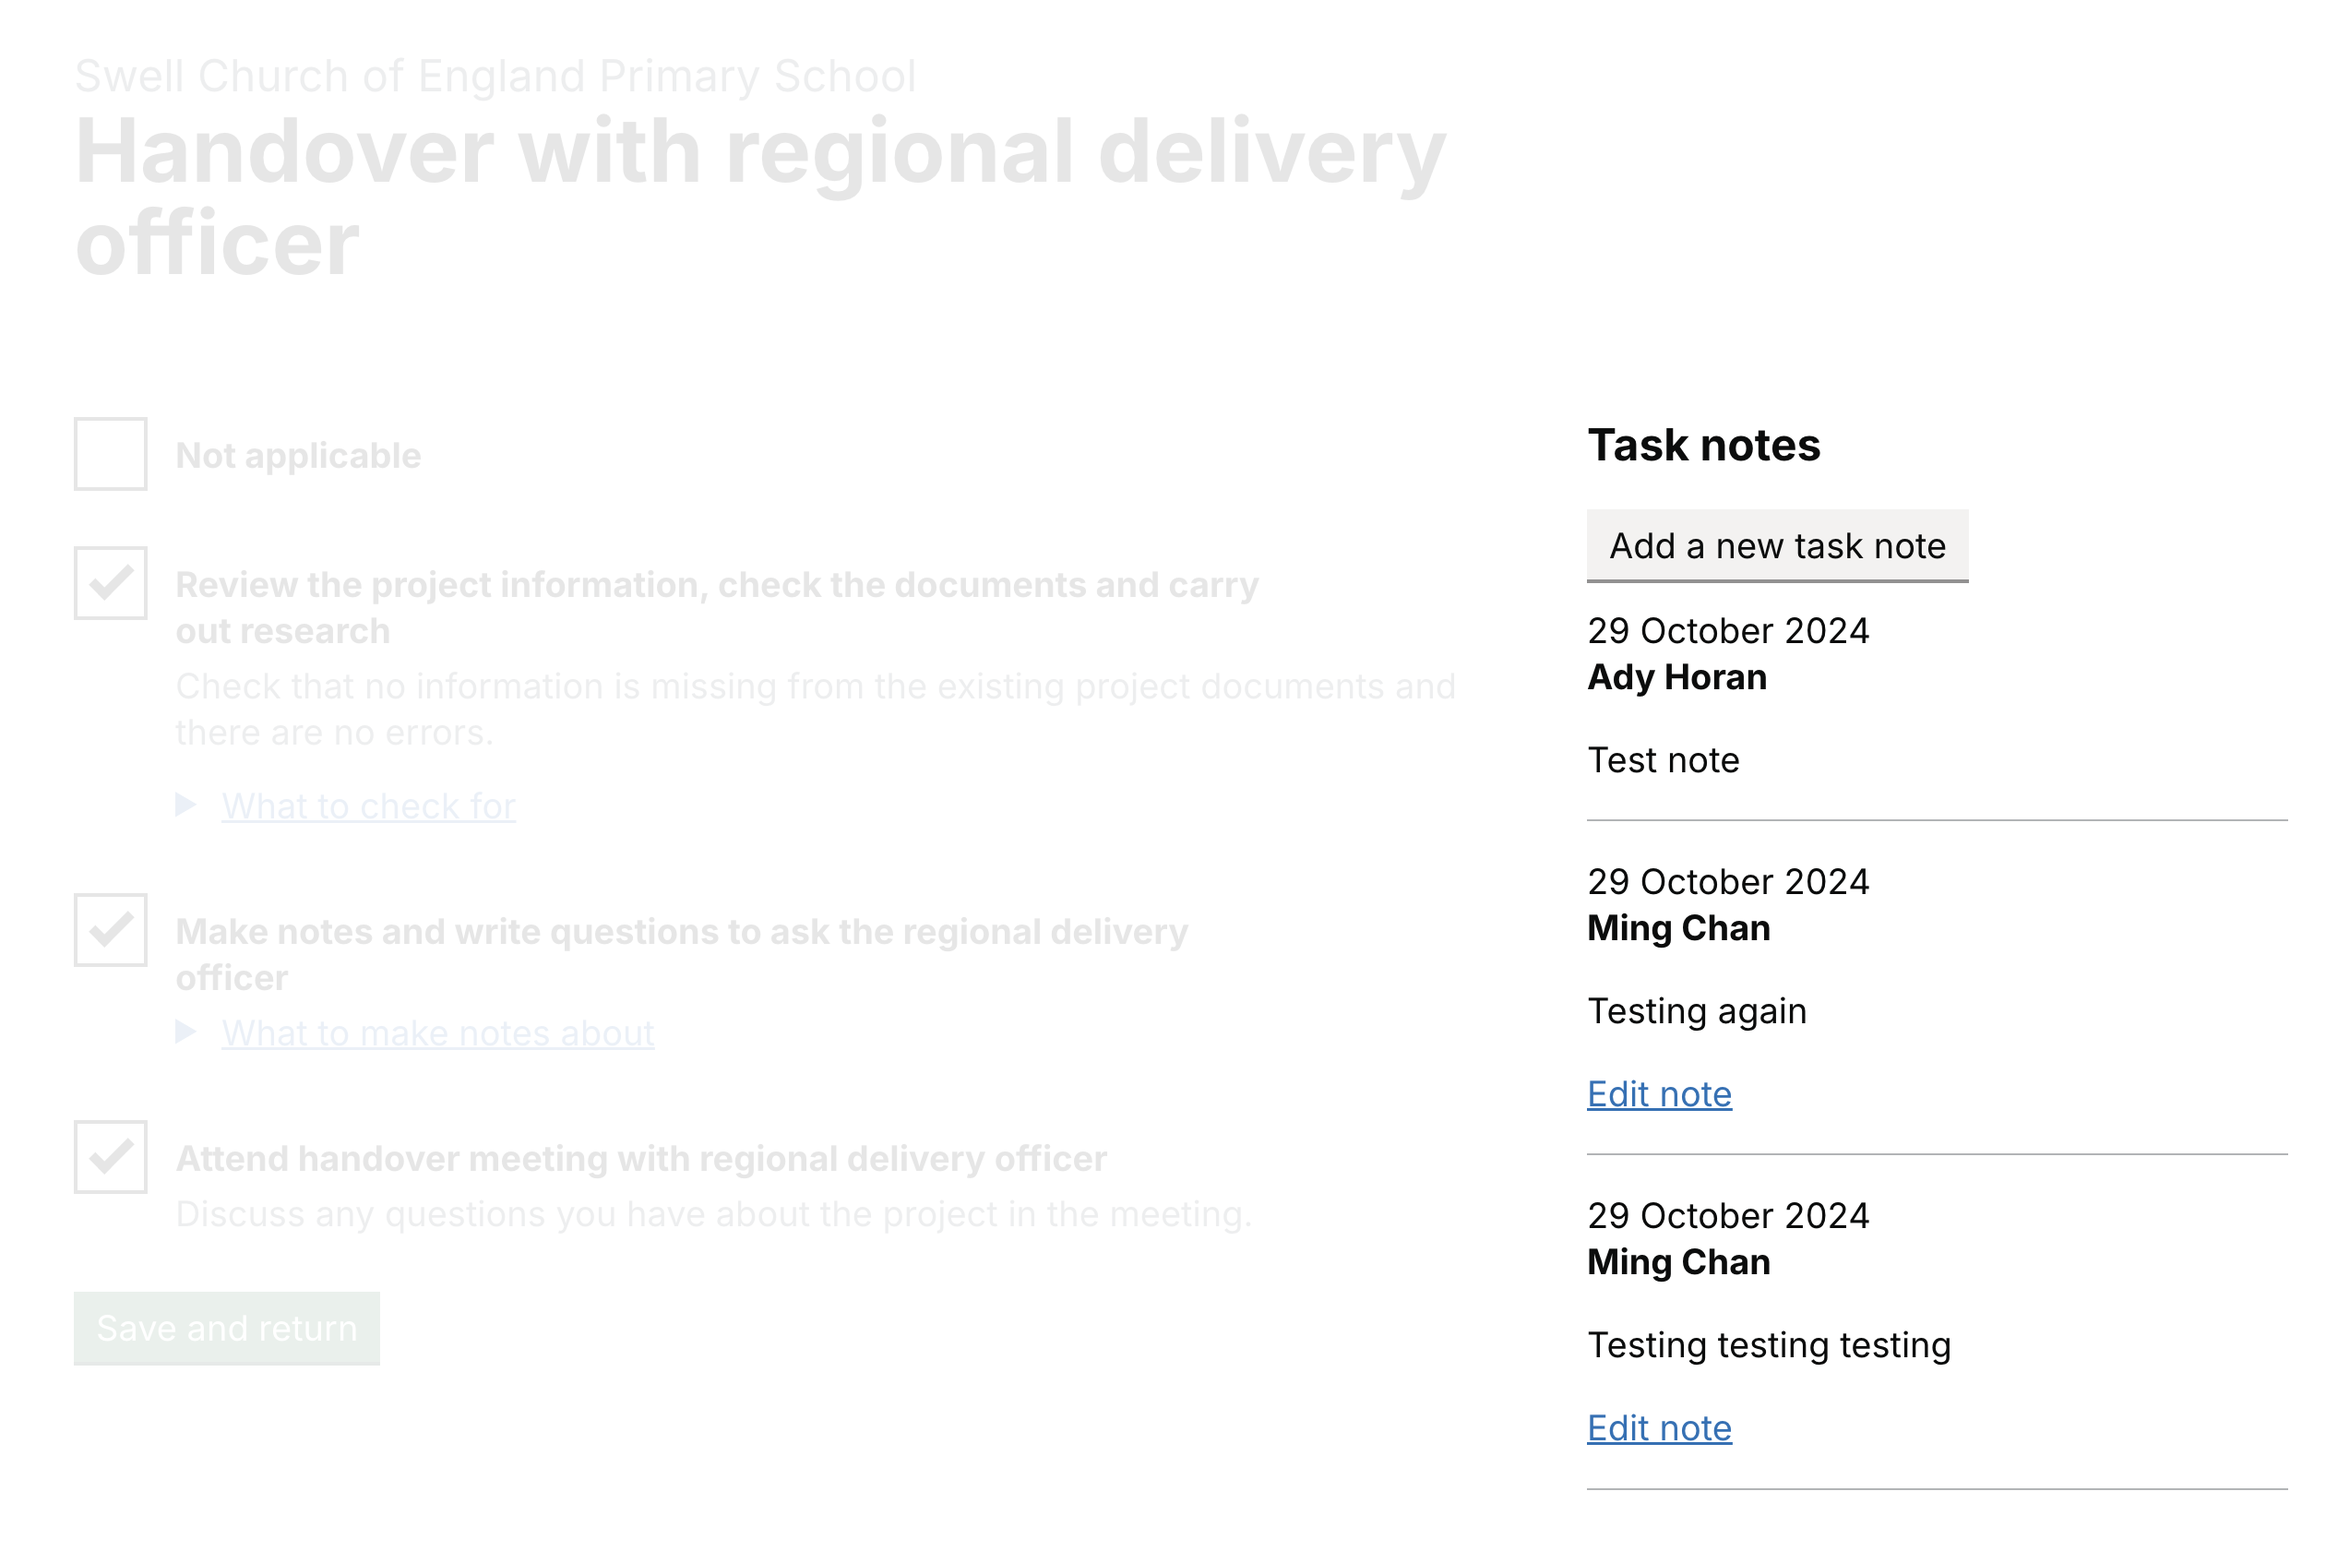
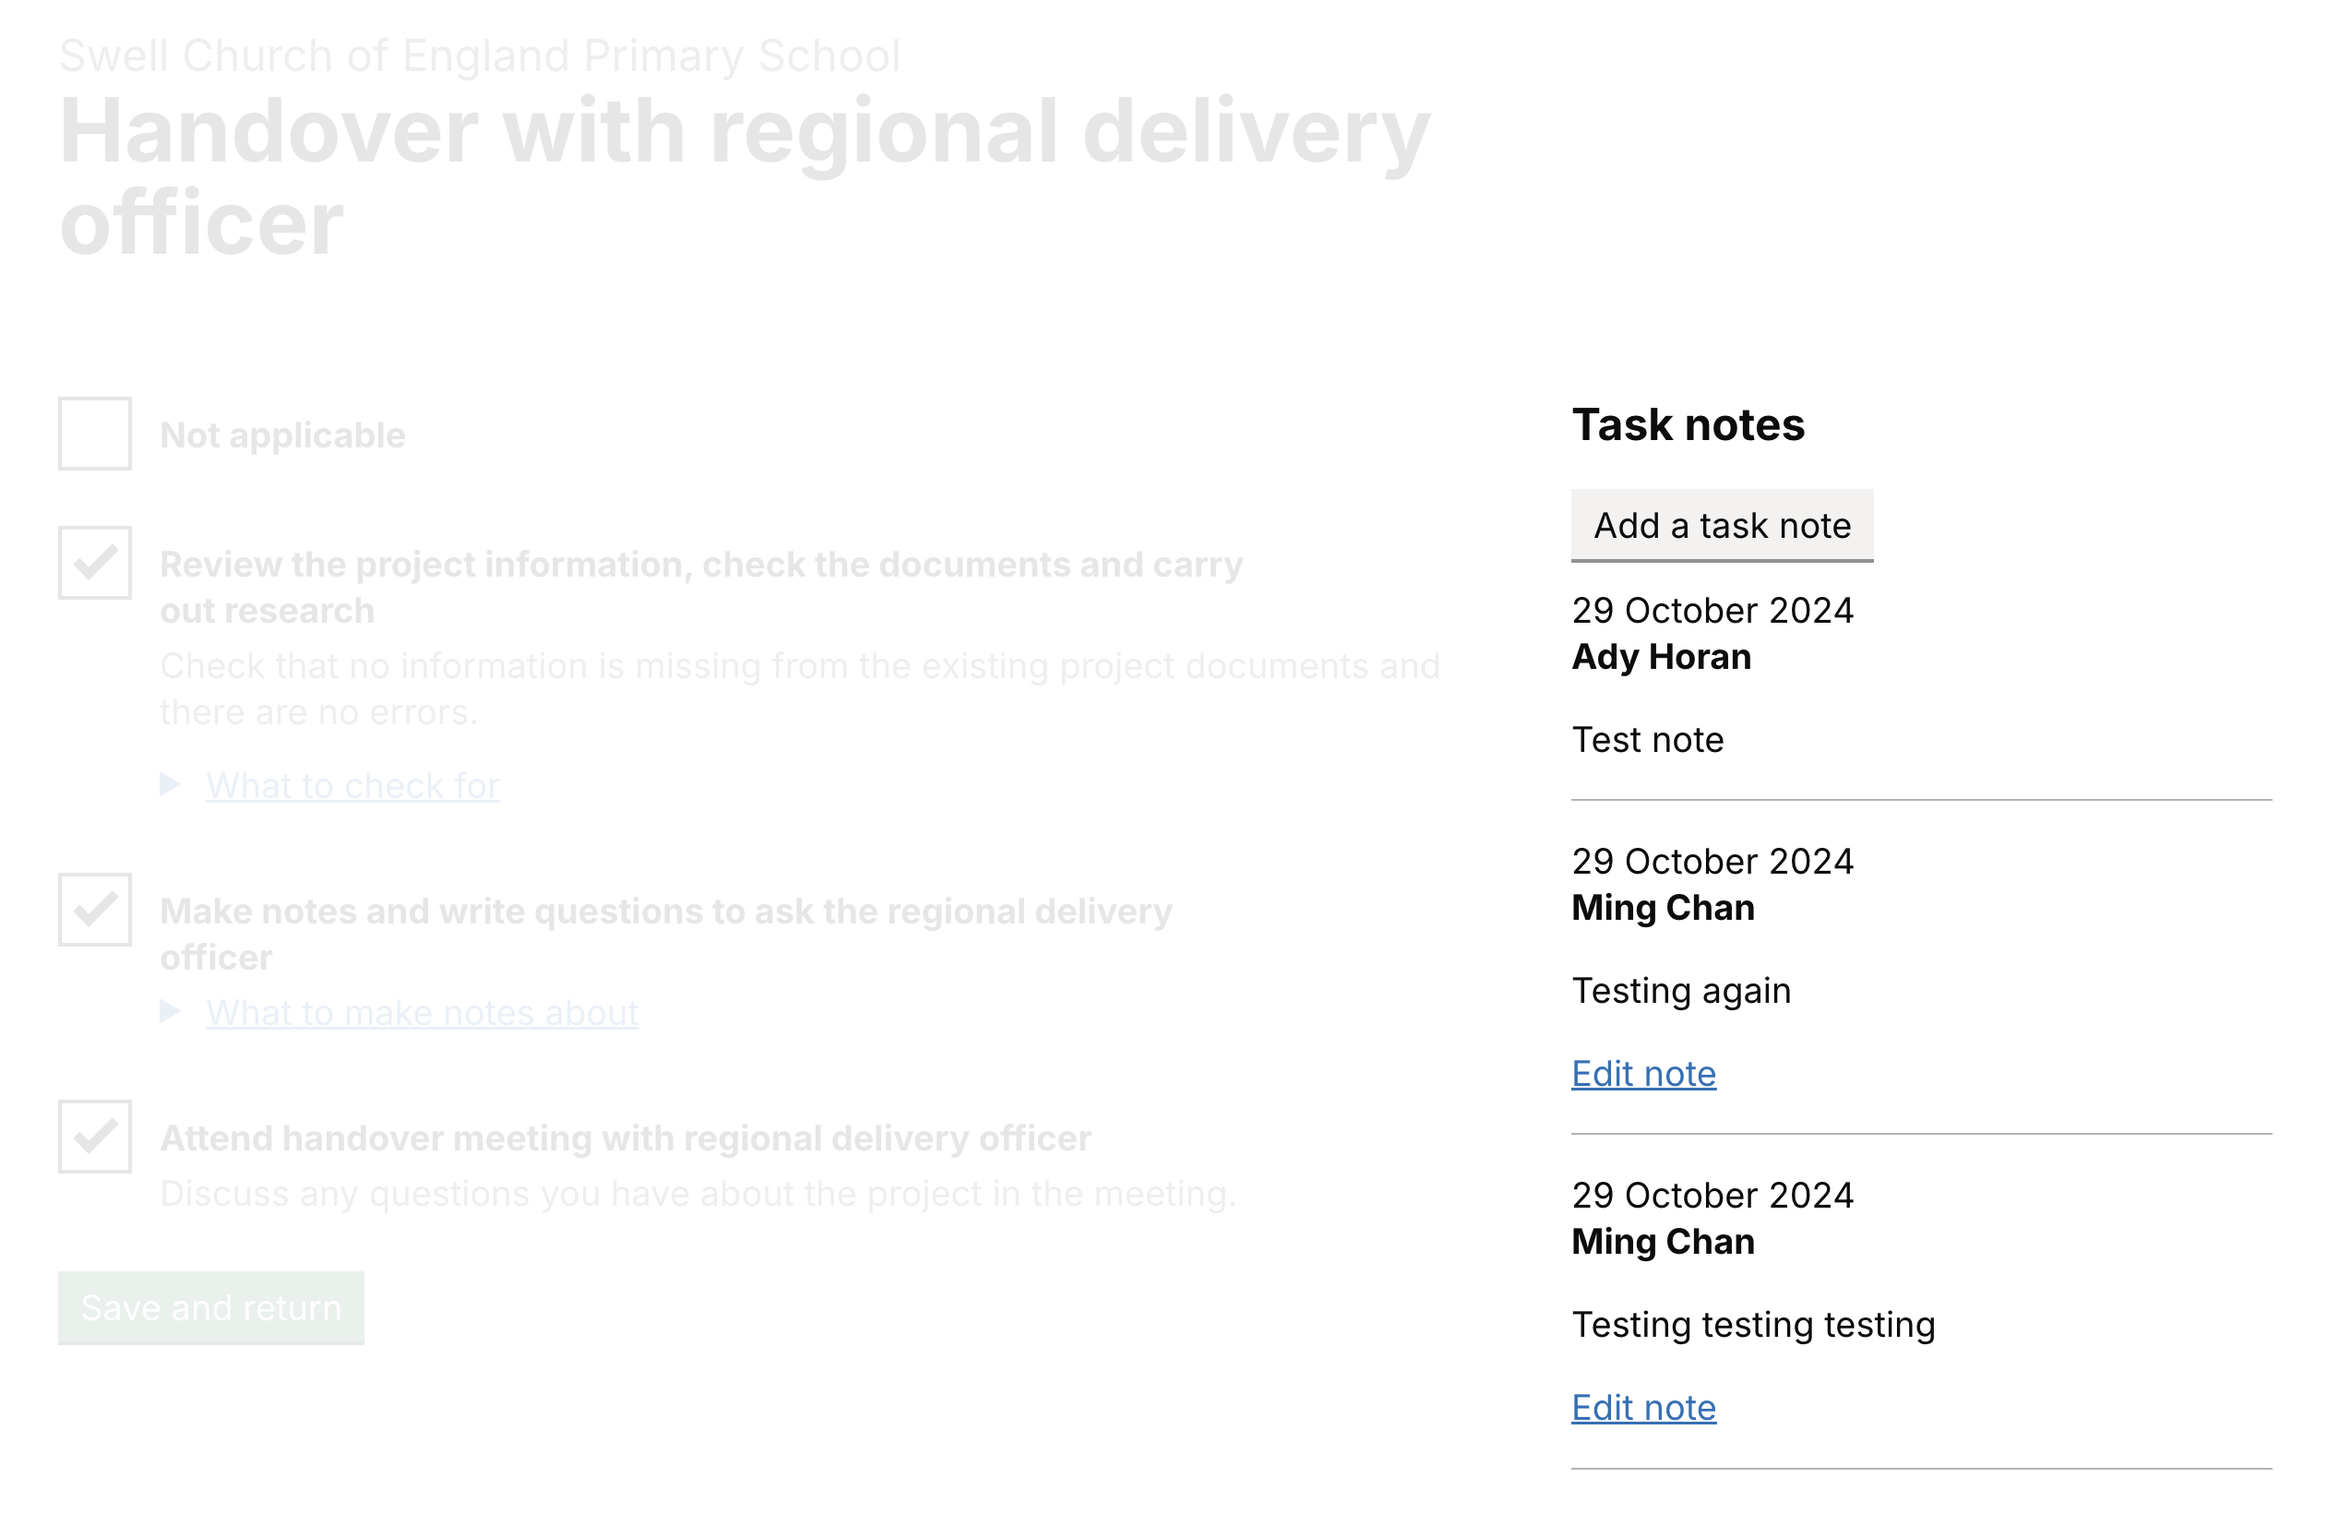
Removed the word New from the add task note button

diff --git a/app/views/design-system/rsd-design-system/design-patterns/notes/code-snippets.html b/app/views/design-system/rsd-design-system/design-patterns/notes/code-snippets.html
@@ -7,7 +7,7 @@
     &lt;aside&gt;
       &lt;h2 class=&quot;govuk-heading-m&quot;&gt;Task notes&lt;/h2&gt;
     
-      &lt;a data-module=&quot;govuk-button&quot; draggable=&quot;false&quot; role=&quot;button&quot; class=&quot;govuk-button govuk-button--secondary govuk-!-margin-bottom-6&quot; href=&quot;#&quot;&gt;Add a new task note&lt;/a&gt;
+      &lt;a data-module=&quot;govuk-button&quot; draggable=&quot;false&quot; role=&quot;button&quot; class=&quot;govuk-button govuk-button--secondary govuk-!-margin-bottom-6&quot; href=&quot;#&quot;&gt;Add a task note&lt;/a&gt;
       &lt;ul class=&quot;govuk-list&quot;&gt;
           &lt;li&gt;
             &lt;p class=&quot;govuk-body govuk-!-margin-bottom-0&quot;&gt;29 October 2024&lt;/p&gt;

diff --git a/app/views/design-system/rsd-design-system/design-patterns/notes/example-reading-task-notes.html b/app/views/design-system/rsd-design-system/design-patterns/notes/example-reading-task-notes.html
@@ -13,7 +13,7 @@ Reading task notes design pattern | RSD component library
     <aside>
       <h2 class="govuk-heading-m">Task notes</h2>
     
-      <a data-module="govuk-button" draggable="false" role="button" class="govuk-button govuk-button--secondary govuk-!-margin-bottom-6" href="#">Add a new task note</a>
+      <a data-module="govuk-button" draggable="false" role="button" class="govuk-button govuk-button--secondary govuk-!-margin-bottom-6" href="#">Add a task note</a>
       <ul class="govuk-list">
           <li>
             <p class="govuk-body govuk-!-margin-bottom-0">29 October 2024</p>
